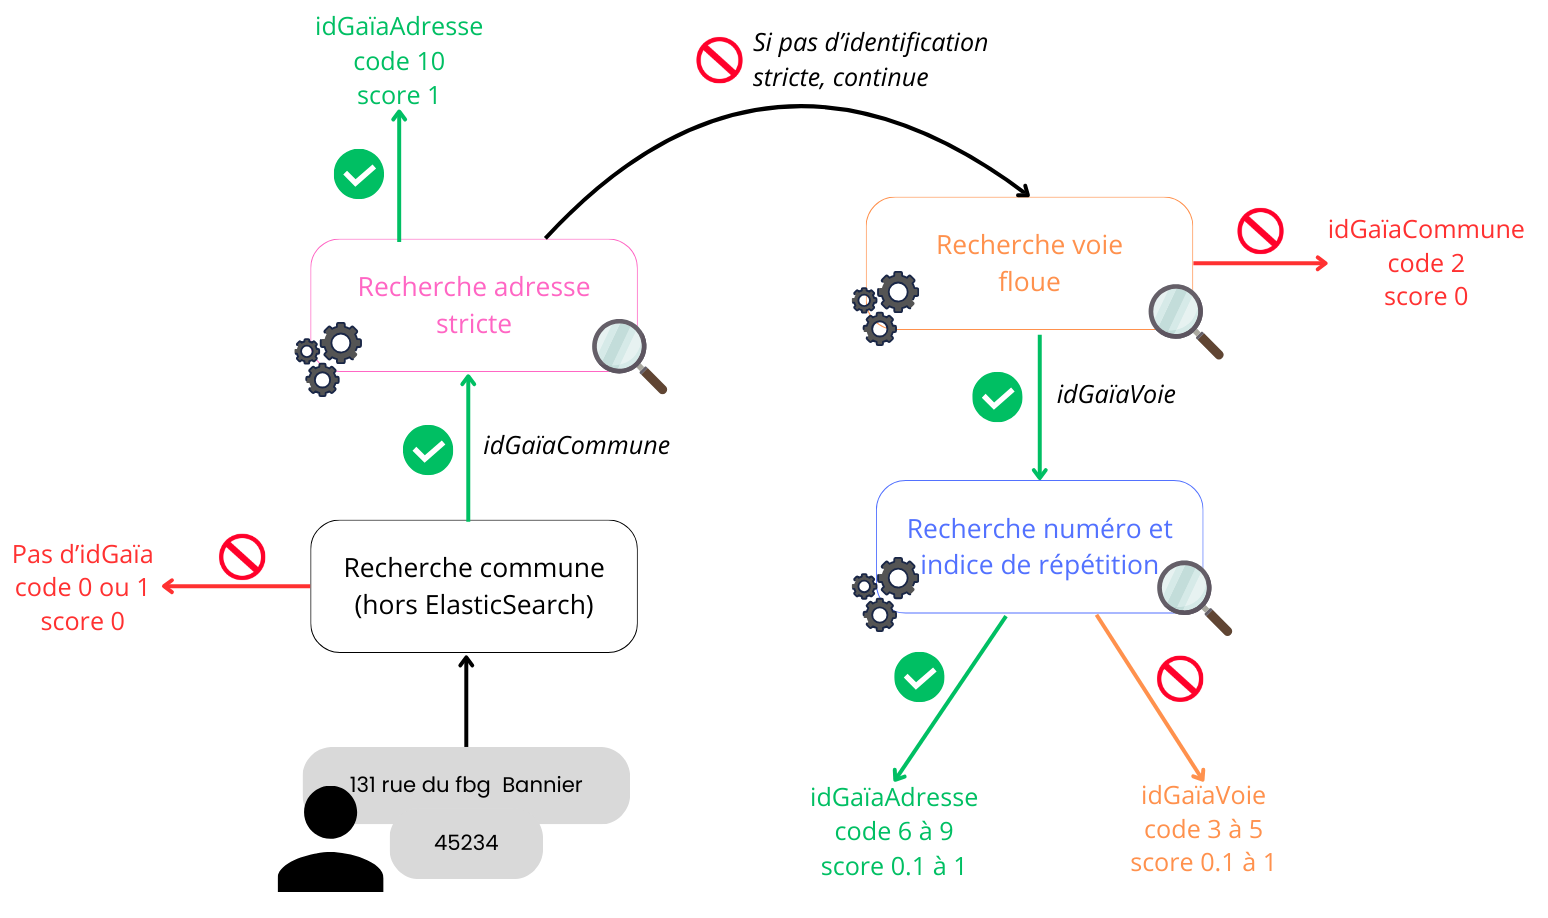
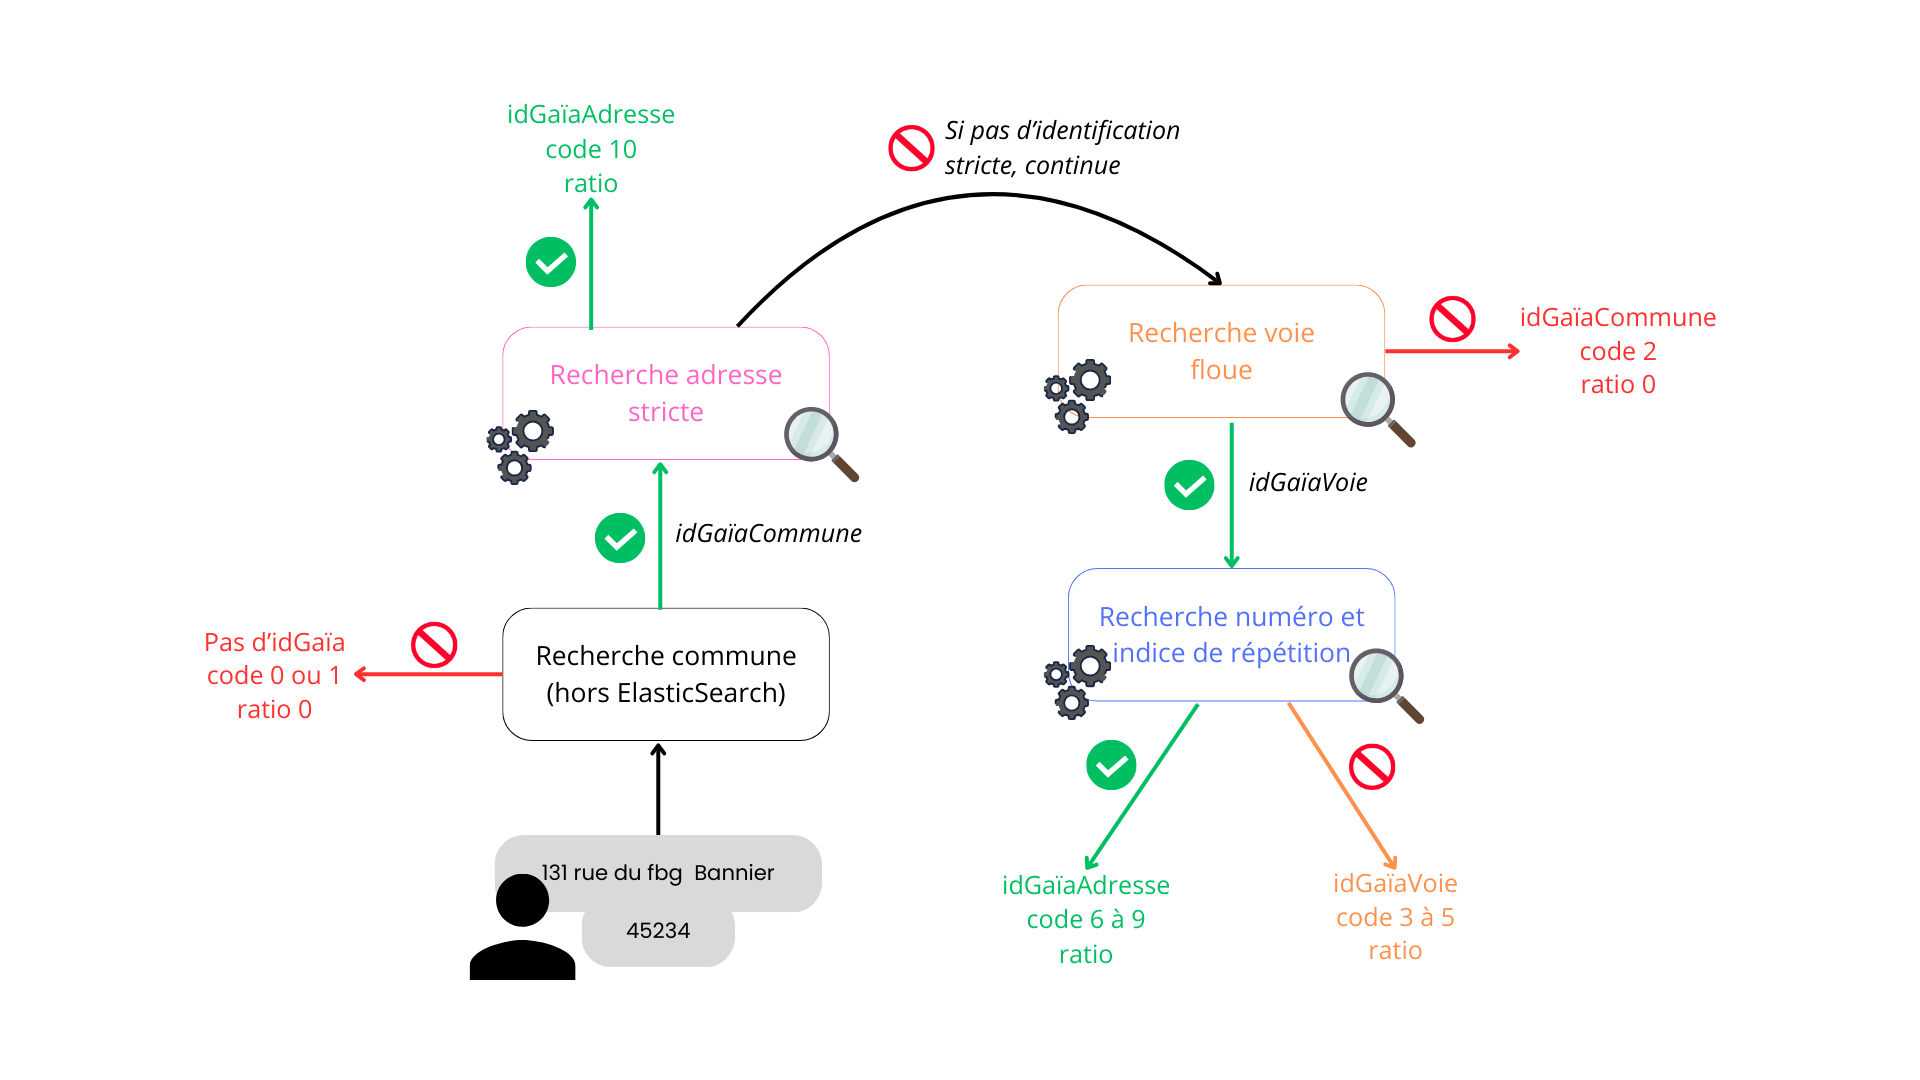
Built site for gh-pages

diff --git a/src/seminaire-dms/index.html b/src/seminaire-dms/index.html
@@ -190,7 +190,7 @@
 <p><br></p>
 <center>
 <p>
-<span class="red2"><strong>20 bis avenue de la marne</strong></span> <span style="margin-left: 130px;"><span class="red2"><strong>92049</strong></span></span>
+<span class="green2"><strong>20</strong></span> <span class="blue2"><strong>bis</strong></span> <span class="yellow2"><strong>avenue</strong></span> <span class="red2"><strong>de la marne</strong></span> <span style="margin-left: 130px;"><span class="purple2"><strong>92049</strong></span></span>
 </p>
 </center>
 <p><br></p>
@@ -199,13 +199,13 @@
 </section>
 <section id="géométrie-de-ladresse" class="slide level2" data-background-image="background.svg" data-background-size="contain">
 <h2>Géométrie de l’adresse</h2>
-<p><em>Exemple: 88 avenue verdier 92049 reliée à sa parcelle</em></p>
+<p><em>Exemple: “88 avenue verdier | 92049” reliée à sa parcelle</em></p>
 
 <img data-src="img/adresse_parcelle.png" class="quarto-figure quarto-figure-center r-stretch" style="width:75.0%"></section>
 <section id="le-référentiel-gaïa" class="slide level2" data-background-image="background.svg" data-background-size="contain">
 <h2>Le référentiel Gaïa</h2>
 
-<img data-src="img/voies_adresses.png" class="quarto-figure quarto-figure-center r-stretch" style="width:75.0%"><aside class="notes">
+<img data-src="img/communes_voies_adresses.png" class="quarto-figure quarto-figure-center r-stretch" style="width:75.0%"><aside class="notes">
 <p>Autres données disponibles (aspect géométrique des objets) :</p>
 <ul>
 <li>Pour chaque adresse Gaïa : point gps, lien parcelle.<br>
@@ -242,11 +242,11 @@
 <h2>Construction du référentiel</h2>
 <p>Sources fiables :</p>
 <ul>
-<li>Majic : Mise à jour des informations cadastrales.<br>
+<li><span class="green2"><strong>Majic</strong></span> : Mise à jour des informations cadastrales.<br>
 </li>
-<li>BAN : Base Adresse Nationale.<br>
+<li><span class="green2"><strong>BAN</strong></span> : Base Adresse Nationale.<br>
 </li>
-<li>RCA : Référentiel Commun d’Adresses.</li>
+<li><span class="green2"><strong>RCA</strong></span> : Référentiel Commun d’Adresses.</li>
 </ul>
 <!-- Est ce que c'est assez d&#xE9;taill&#xE9; ? Peut etre mettre la source ? -->
 <p>Au moins une mise à jour par mois (avec conservation des identifiants Gaïa).</p>
@@ -388,15 +388,15 @@ L’étape d’identification des adresses permet de ne pas écraser les identif
 <tbody>
 <tr class="odd">
 <td>131, rue du fbg Bannier</td>
-<td></td>
+<td>-</td>
 <td>45000</td>
 <td>Orléans</td>
 </tr>
 <tr class="even">
 <td>0033 ave J. Jaurès</td>
 <td>92040</td>
-<td></td>
-<td></td>
+<td>-</td>
+<td>-</td>
 </tr>
 </tbody>
 </table>
@@ -424,21 +424,21 @@ L’étape d’identification des adresses permet de ne pas écraser les identif
 <section id="un-moteur-de-recherche" class="slide level2" data-background-image="background.svg" data-background-size="contain">
 <h2>Un moteur de recherche ⚙</h2>
 <ul>
-<li>Google : recherche par mot clé.<br>
+<li><strong>Google</strong> : recherche par mot clé.<br>
 </li>
 <li>Pour la recherche d’adresse :
 <ul>
-<li>Google Maps.</li>
-<li>Addok, moteur de recherche de la BAN.</li>
+<li><strong>Google Maps</strong>.</li>
+<li><strong>Addok</strong> : moteur de recherche de la BAN.</li>
 </ul></li>
 </ul>
 </section>
 <section id="elasticsearch" class="slide level2" data-background-image="background.svg" data-background-size="contain">
 <h2>ElasticSearch</h2>
 <ul>
-<li>Créé en 2010 par Shay Bannon.<br>
+<li>Créé en <strong>2010</strong> par Shay Bannon.<br>
 </li>
-<li>Moteur ⚙ utilisable en n’importe quel langage (requêtes HTTP).<br>
+<li>Moteur ⚙ utilisable en <span class="green2"><strong>n’importe quel langage de programmation</strong></span> (requêtes HTTP).<br>
 </li>
 <li>Faire des recherches rapides sur tout type de données (textes, objets géométriques…).</li>
 </ul>
@@ -556,9 +556,9 @@ On peut commencer &#xE0; cr&#xE9;er notre moteur &#x2699;&#xFE0F;. -->
 <h2>Filtres</h2>
 <!-- - D&#xE9;finis dans les *settings* &#x1F6E0;&#xFE0F;.   -->
 <ul>
-<li>Normalisent les données.<br>
+<li>Normaliser le texte pour la comparaison.<br>
 </li>
-<li>Pour les données du référentiel et pour les adresses recherchées.</li>
+<li>Pour les <span class="green2"><strong>données du référentiel</strong></span> ET pour les <span class="blue2"><strong>adresses recherchées</strong></span>.</li>
 </ul>
 </section>
 <section id="filtres-implémentés" class="slide level2" data-background-image="background.svg" data-background-size="contain">
@@ -570,9 +570,11 @@ On peut commencer &#xE0; cr&#xE9;er notre moteur &#x2699;&#xFE0F;. -->
 </li>
 <li>Ponctuation<br>
 </li>
-<li>Séparation des nombres et lettres <em>(ex : 14bis → 14 bis)</em><br>
+<li>Séparation des nombres et lettres <em>(ex : 1er → 1 er)</em><br>
 </li>
 <li>Suppression des espaces supplémentaires<br>
+</li>
+<li>Suppression des “0” devant les nombres <em>(ex : 0033 → 33)</em><br>
 </li>
 <li><span class="red2"><strong>Prise en compte des synonymes</strong></span> <em>(ex : ave = avenue, st = saint)</em></li>
 </ul>
@@ -629,10 +631,10 @@ On peut commencer &#xE0; cr&#xE9;er notre moteur &#x2699;&#xFE0F;. -->
 <p><span class="green2"><strong>Tokenizer</strong></span> = façon de découper le texte recherché et ciblé.</p>
 <p><br></p>
 <p><span class="blue2"><strong>Pour retourner la voie la plus pertinente</strong></span>, on construit un score pour chaque voie : <span class="math display">\[
-score_{voie} = \sum_{\text{∀t} \in \text{T}} {nb\_occurrence}_t
+score_{voie} = \sum_{\text{∀m} \in \text{M}} {nb\_occurrence}_m
 \]</span></p>
-<p>t = token<br>
-T = ensemble des tokens de l’adresse recherchée</p>
+<p>m = mot<br>
+M = ensemble des mots de l’adresse recherchée</p>
 </section>
 <section id="score-avec-tokenizer-mot-1" class="slide level2" data-background-image="background.svg" data-background-size="contain">
 <h2>Score avec tokenizer “mot”</h2>
@@ -842,6 +844,7 @@ cours
 |----------|-------------------------|
 | avenue   | ave, ven, enu, nue      |
 | verdier  | ver, erd, rdi, die, ier | -->
+<p>Si un mot est inférieur à la taille n, il n’aura pas de découpage en n-grams → pas présent dans l’index inversé n-gram.</p>
 </section>
 <section id="index-inversé-3-grams" class="slide level2" data-background-image="background.svg" data-background-size="contain">
 <h2>Index inversé 3-grams</h2>
@@ -908,7 +911,7 @@ des cours
 </tbody>
 </table>
 <!-- Ajoutez un espacement entre les deux tableaux -->
-<div style="margin-left: 130px;">
+<div style="margin-left: 80px;">
 
 </div>
 <table>
@@ -1008,7 +1011,6 @@ score_{voie} = \sum_{\text{∀ngram} \in \text{N}} {nb\_occurrence}_{ngram}
 <section id="fuzziness" class="slide level2" data-background-image="background.svg" data-background-size="contain">
 <h2>Fuzziness</h2>
 <p>Contourner les fautes d’orthographes d’une autre façon : <span class="green2"><strong>fuzziness</strong></span>.</p>
-<p><br></p>
 <p>Pour matcher 🎯 deux mots avec une fuzziness de niveau 1 = corriger l’un des mots :</p>
 <ul>
 <li>Ajout d’une lettre.<br>
@@ -1019,6 +1021,7 @@ score_{voie} = \sum_{\text{∀ngram} \in \text{N}} {nb\_occurrence}_{ngram}
 </li>
 <li>Échanger deux lettres de place.</li>
 </ul>
+<p>Il est possible de comparer deux textes, deux ngrams ou n’importe quel autre groupe de caractères.</p>
 </section>
 <section id="score-global" class="slide level2" data-background-image="background.svg" data-background-size="contain">
 <h2>Score global</h2>
@@ -1042,11 +1045,11 @@ score_{voie} = \sum_{\text{∀ngram} \in \text{N}} {nb\_occurrence}_{ngram}
 <section id="retour-sur-le-score-global" class="slide level2" data-background-image="background.svg" data-background-size="contain">
 <h2>Retour sur le score global</h2>
 <p><span class="math display">\[
-score_{voie} = \sum_{\text{∀n} \in \text{N}} \sum_{\text{∀sc} \in \text{n}} boost_{n}*{nb\_occurrence}_{sc}
+score_{voie} = \sum_{\text{∀n} \in \text{N}} \sum_{\text{∀t} \in \text{n}} boost_{n}*{nb\_occurrence}_{t}
 \]</span></p>
 <p>N = ensemble des niveaux <em>(niveau mot, niveau fuzzi…)</em><br>
 n = niveau<br>
-sc = sous-chaîne <em>(un mot, un 3-grams…)</em></p>
+t = token, sous-chaîne <em>(un mot, un 3-grams…)</em></p>
 <!-- ## Configurer le moteur &#x2699;&#xFE0F;
 
 Une fois qu'on a la th&#xE9;orie, il faut l'appliquer en pratique.  
@@ -1058,17 +1061,16 @@ Le package elasticsearch permet d'indexer les donn&#xE9;es en fournissant :
 - Des [**mappings**]{.green2} &#x1F3F7;&#xFE0F; o&#xF9; pour chaque **variable**, on fournit un analyzer.   -->
 </section>
 <section id="faire-des-recherches" class="slide level2" data-background-image="background.svg" data-background-size="contain">
-<h2>Faire des recherches</h2>
-<p>Une recherche = une requête 🔍.</p>
-<p><em>Requête pour retrouver la voie :</em></p>
+<h2>Faire des recherches 🔍</h2>
+<p><em>Requête 🔍 pour retrouver la voie :</em></p>
 <ul>
-<li>Match 🎯 nom de voie entier sans découpage avec fuzzi 1 → boost 200. <em>Ex : “3 rue du genral de gaulle” avec “du gen<strong>e</strong>ral de gaulle”</em>.<br>
+<li>Match 🎯 nom de voie entier sans découpage avec fuzzi 1 → <strong>boost 200</strong>. <em>Ex : “3 rue du genral de gaulle” avec “du gen<strong>e</strong>ral de gaulle”</em>.<br>
 </li>
-<li>Match 🎯 chaque mot du nom de voie avec fuzzi 1 → boost 15. <em>Ex : “3 rue du genral de gaule” avec “du”, “gen<strong>e</strong>ral”, “de”, “gaul<strong>l</strong>e”</em>.<br>
+<li>Match 🎯 chaque mot du nom de voie avec fuzzi 1 → <strong>boost 15</strong>. <em>Ex : “3 rue du genral de gaule” avec “du”, “gen<strong>e</strong>ral”, “de”, “gaul<strong>l</strong>e”</em>.<br>
 </li>
-<li>Match 🎯 chaque mot du type de voie avec fuzzi 1 → boost 5. <em>Ex : “3 rue du general de gaule” avec “rue”</em>.<br>
+<li>Match 🎯 chaque mot du type de voie avec fuzzi 1 → <strong>boost 5</strong>. <em>Ex : “3 rue du general de gaule” avec “rue”</em>.<br>
 </li>
-<li>Match 🎯 chaque 3 à 5-grams du nom de voie → boost 1.</li>
+<li>Match 🎯 chaque 3 à 5-grams du nom de voie → <strong>boost 1</strong>.</li>
 </ul>
 <p>À chaque fois qu’une sous-chaîne valide l’une de ces conditions, le score va ⇡ en fonction du boost associé.</p>
 <aside class="notes">
@@ -1109,8 +1111,6 @@ Le package elasticsearch permet d'indexer les donn&#xE9;es en fournissant :
 <ul>
 <li>Prends en entrée un <span class="green2"><strong>libellé d’adresse</strong></span> et un <span class="blue2"><strong>COG</strong></span>, ou à défaut, <span class="blue2"><strong>un code postal + libellé commune</strong></span>.<br>
 </li>
-<li>Succession de requêtes ElasticSearch.</li>
-<li>Étapes de validation des résultats après chaque requête.</li>
 <li>Retourne :
 <ul>
 <li>le(s) identifiant(s) Gaïa retrouvé(s).<br>
@@ -1259,7 +1259,7 @@ R2 = score Elastic de la 2ème voie la plus pertinente.</p>
 <section id="constitution-dun-jeu-de-test" class="slide level2" data-background-image="background.svg" data-background-size="contain">
 <h2>Constitution d’un jeu de test</h2>
 <ul>
-<li><strong>Idée : avoir des adresses avec des variations textuelles et leur idGaïaAdresse (vérité).</strong><br>
+<li><span class="red2"><strong>Idée : avoir des adresses avec des variations textuelles et leur idGaïaAdresse associé (vérité).</strong></span><br>
 </li>
 <li>Le jeu de test est une suite d’appariements de sources de données :
 <ul>
@@ -1296,7 +1296,7 @@ R2 = score Elastic de la 2ème voie la plus pertinente.</p>
 </section>
 <section id="évaluation-de-lalgorithme-didentification" class="slide level2" data-background-image="background.svg" data-background-size="contain">
 <h2>Évaluation de l’algorithme d’identification</h2>
-<p>Sur 100 000 adresses sur tout le territoire français :</p>
+<p>Pour 100 000 adresses issues du jeu de test sur tout le territoire français :</p>
 <table class="caption-top">
 <colgroup>
 <col style="width: 17%">
@@ -1315,8 +1315,8 @@ R2 = score Elastic de la 2ème voie la plus pertinente.</p>
 <tbody>
 <tr class="odd">
 <td><strong>Pourcentage</strong></td>
-<td>86,0%</td>
-<td>99,5%</td>
+<td><span class="red2"><strong>86,0%</strong></span></td>
+<td><span class="red2"><strong>99,5%</strong></span></td>
 <td>0,5%</td>
 </tr>
 <tr class="even">

diff --git a/index.html b/index.html
@@ -191,7 +191,7 @@ window.Quarto = {
 
 <div class="list grid quarto-listing-cols-3">
 
-  <div class="g-col-1" data-index="0" data-listing-date-sort="1732624532000" data-listing-file-modified-sort="1732624532386" data-listing-date-modified-sort="NaN" data-listing-reading-time-sort="1" data-listing-word-count-sort="1">
+  <div class="g-col-1" data-index="0" data-listing-date-sort="1732626596000" data-listing-file-modified-sort="1732626596172" data-listing-date-modified-sort="NaN" data-listing-reading-time-sort="1" data-listing-word-count-sort="1">
     <a href="src/documentation/index.html" target="_blank" rel="noopener" class="grid-item-link"> <!-- Added link wrapper -->
       </a><div class="quarto-grid-item card h-100 card-left"><a href="src/documentation/index.html" target="_blank" rel="noopener" class="grid-item-link">
         
@@ -243,7 +243,7 @@ window.Quarto = {
               cards1.qmd
             </div>
             <div class="card-file-modified listing-file-modified">
-              11/26/24, 12:35:32 PM
+              11/26/24, 1:09:56 PM
             </div>
         </div> -->
 
@@ -251,7 +251,7 @@ window.Quarto = {
      <!-- Added link wrapper -->
   </div>
 
-  <div class="g-col-1" data-index="1" data-listing-date-sort="1732624532000" data-listing-file-modified-sort="1732624532386" data-listing-date-modified-sort="NaN" data-listing-reading-time-sort="1" data-listing-word-count-sort="1">
+  <div class="g-col-1" data-index="1" data-listing-date-sort="1732626596000" data-listing-file-modified-sort="1732626596172" data-listing-date-modified-sort="NaN" data-listing-reading-time-sort="1" data-listing-word-count-sort="1">
     <a href="src/seminaire-dms/index.html" target="_blank" rel="noopener" class="grid-item-link"> <!-- Added link wrapper -->
       </a><div class="quarto-grid-item card h-100 card-left"><a href="src/seminaire-dms/index.html" target="_blank" rel="noopener" class="grid-item-link">
         
@@ -303,7 +303,7 @@ window.Quarto = {
               cards2.qmd
             </div>
             <div class="card-file-modified listing-file-modified">
-              11/26/24, 12:35:32 PM
+              11/26/24, 1:09:56 PM
             </div>
         </div> -->
 
@@ -311,7 +311,7 @@ window.Quarto = {
      <!-- Added link wrapper -->
   </div>
 
-  <div class="g-col-1" data-index="2" data-listing-date-sort="1732624532000" data-listing-file-modified-sort="1732624532386" data-listing-date-modified-sort="NaN" data-listing-reading-time-sort="1" data-listing-word-count-sort="1">
+  <div class="g-col-1" data-index="2" data-listing-date-sort="1732626596000" data-listing-file-modified-sort="1732626596172" data-listing-date-modified-sort="NaN" data-listing-reading-time-sort="1" data-listing-word-count-sort="1">
     <a href="src/abstract-ntts/index.pdf" target="_blank" rel="noopener" class="grid-item-link"> <!-- Added link wrapper -->
       </a><div class="quarto-grid-item card h-100 card-left"><a href="src/abstract-ntts/index.pdf" target="_blank" rel="noopener" class="grid-item-link">
         
@@ -363,7 +363,7 @@ window.Quarto = {
               cards3.qmd
             </div>
             <div class="card-file-modified listing-file-modified">
-              11/26/24, 12:35:32 PM
+              11/26/24, 1:09:56 PM
             </div>
         </div> -->
 

diff --git a/src/documentation/elasticsearch.html b/src/documentation/elasticsearch.html
@@ -78,8 +78,8 @@ ul.task-list li input[type="checkbox"] {
 <meta property="og:description" content="">
 <meta property="og:image" content="https://inseefrlab.github.io/address-search-gaia-docs/src/documentation/img/schema_moteur_fr.png">
 <meta property="og:site_name" content="Moteur de recherche d'adresse Gaïa">
-<meta property="og:image:height" content="918">
-<meta property="og:image:width" content="1548">
+<meta property="og:image:height" content="1080">
+<meta property="og:image:width" content="1920">
 </head>
 
 <body class="nav-sidebar docked nav-fixed">

diff --git a/src/custom.css b/src/custom.css
@@ -1,7 +1,9 @@
 .green2, .green2 code, .green2 a { color: #008A25!important; }
 .red2, .red2 code, .red2 a { color: #EE0220!important; }
 .blue2, .blue2 code, .blue2 a { color: #4758AB!important; }
-.yellow2, .yellow2 code, .yellow2 a { color: #ddcb28!important; }
+.yellow2, .yellow2 code, .yellow2 a { color: #f0ec07!important; }
+.purple2, .purple2 code, .purple2 a { color: #eb0cc5!important; }
+
 
 #vcenter {
   vertical-align: middle;
